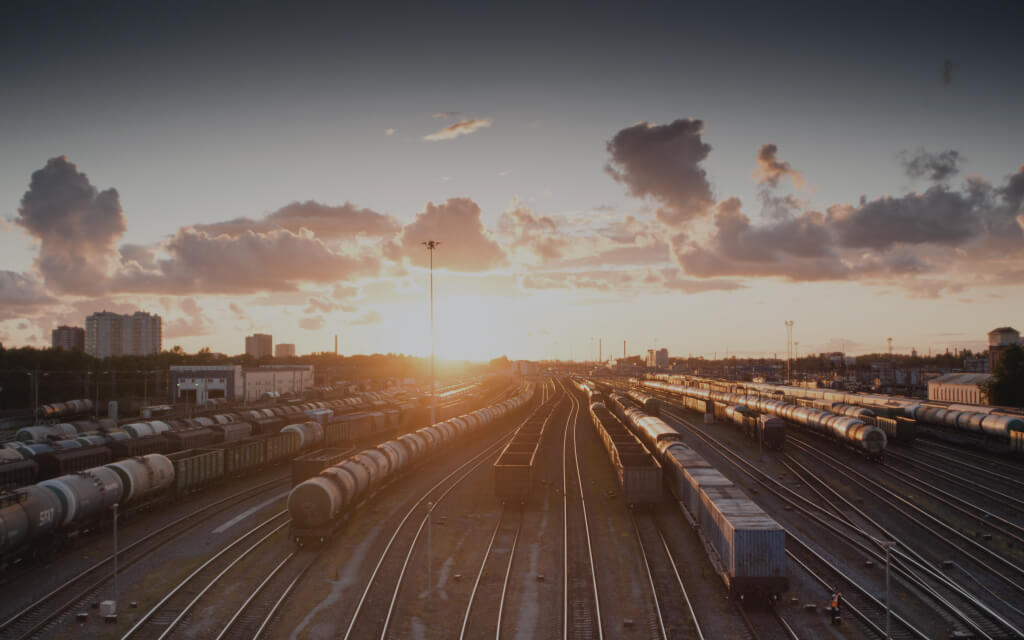
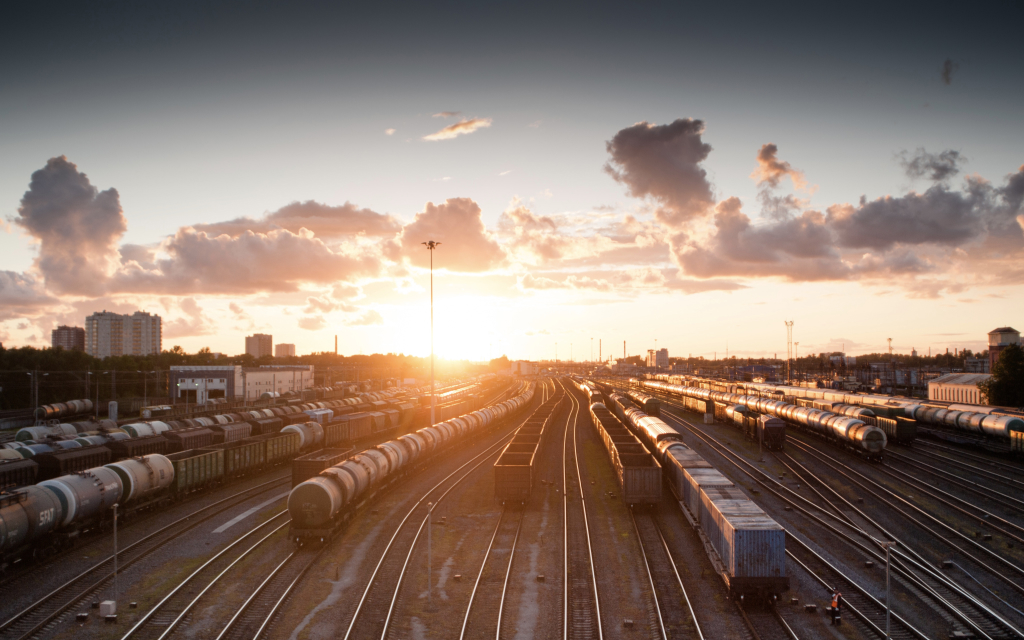
все исправил mf

diff --git a/blocks/cover/__img-link/cover__img-link.css b/blocks/cover/__img-link/cover__img-link.css
@@ -13,6 +13,17 @@
   z-index: 1;
 }
 
+.cover__img-link::after {
+  content: '';
+  display: block;
+  position: absolute;
+  width: 100%;
+  height: 100%;
+  background-color: rgba(42, 44, 47, 0.3);
+  top: 0;
+  left: 0;
+  }
+
 @media screen and (min-width: 320px) {
   .cover__img-link {
     min-height: 200px;
